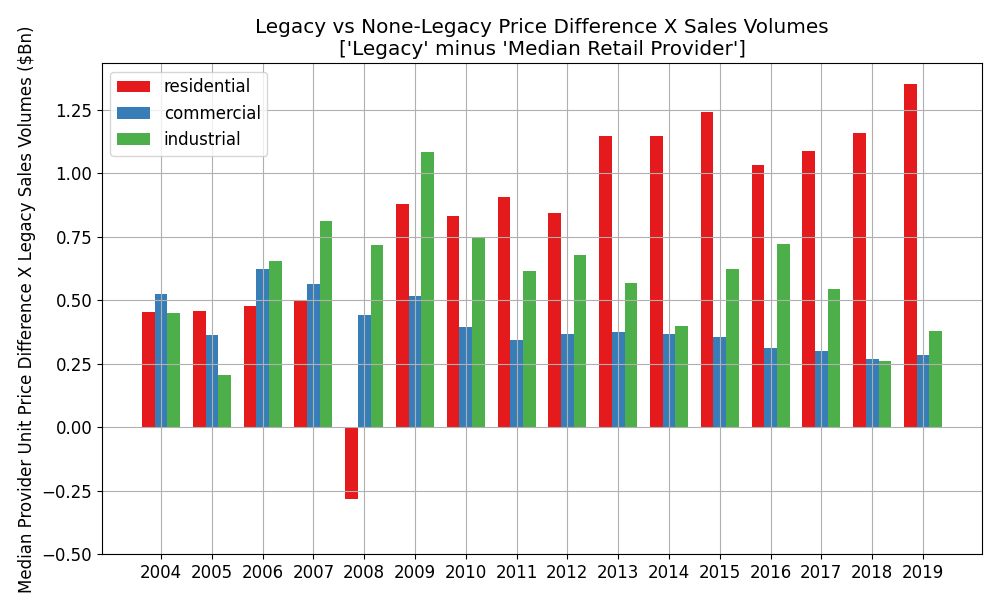
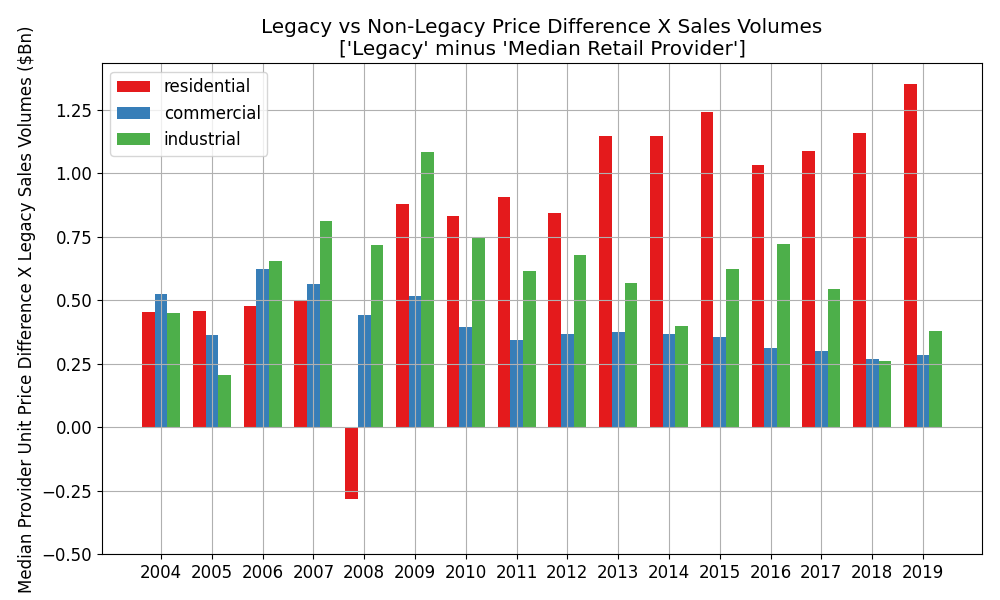
minor changes in graphs

Changed region(s): [[0.248, 0.03, 0.837, 0.06]]

diff --git a/eia_retail_analysis2.py b/eia_retail_analysis2.py
@@ -342,7 +342,7 @@ for i, cust_segment in enumerate(cust_segments):
                              width, label=cust_segments[i], color=segment_colors[i])
 # Add some text for labels, title and custom x-axis tick labels, etc.
 for i, cust_segment in enumerate(cust_segments):
-    axes[i].set_ylabel("""Median Provider Monthly Bill Difference Difference($/Month)""")
+    axes[i].set_ylabel("""Monthly Bill Difference at Median Prices ($/Month)""")
     axes[i].set_title("Monthly Bill Comparison\n['Traditional Utility' minus 'Retail Provider']: {0}".format(cust_segment))
     axes[i].set_xticks(x)
     axes[i].grid(True)
@@ -520,7 +520,7 @@ rects3 = ax.bar(x + width, LegacySwitchBn_df.loc[idx[:, cust_segments[2], :], :]
 
 # Add some text for labels, title and custom x-axis tick labels, etc.
 ax.set_ylabel("""Median Provider Unit Price Difference X Legacy Sales Volumes ($Bn)""")
-ax.set_title("Legacy vs None-Legacy Price Difference X Sales Volumes\n['Legacy' minus 'Median Retail Provider']")
+ax.set_title("Legacy vs Non-Legacy Price Difference X Sales Volumes\n['Legacy' minus 'Median Retail Provider']")
 ax.set_xticks(x)
 ax.grid(True)
 ax.set_yticks(ticks=np.arange(-.5, 1.5, 0.25), minor=True)

diff --git a/files/analysis2_all_tables.md b/files/analysis2_all_tables.md
@@ -9,7 +9,7 @@ Median Price Difference X Sales Volumes, All Markets
 
 Average Billing Statistics, all Markets
 
-| CustClass   |   KWH_PerMonth |   BillUSD_PerMonth |   Prc_CentsPerKWH |
+| CustClass   |   KWH_PerMonth |   Bill_USD_PerMonth |   Prc_CentsPerKWH |
 |:------------|---------------:|-------------------:|------------------:|
 | residential |       1,187.55 |             147.80 |             12.45 |
 | commercial  |       8,398.58 |             733.65 |              8.74 |
